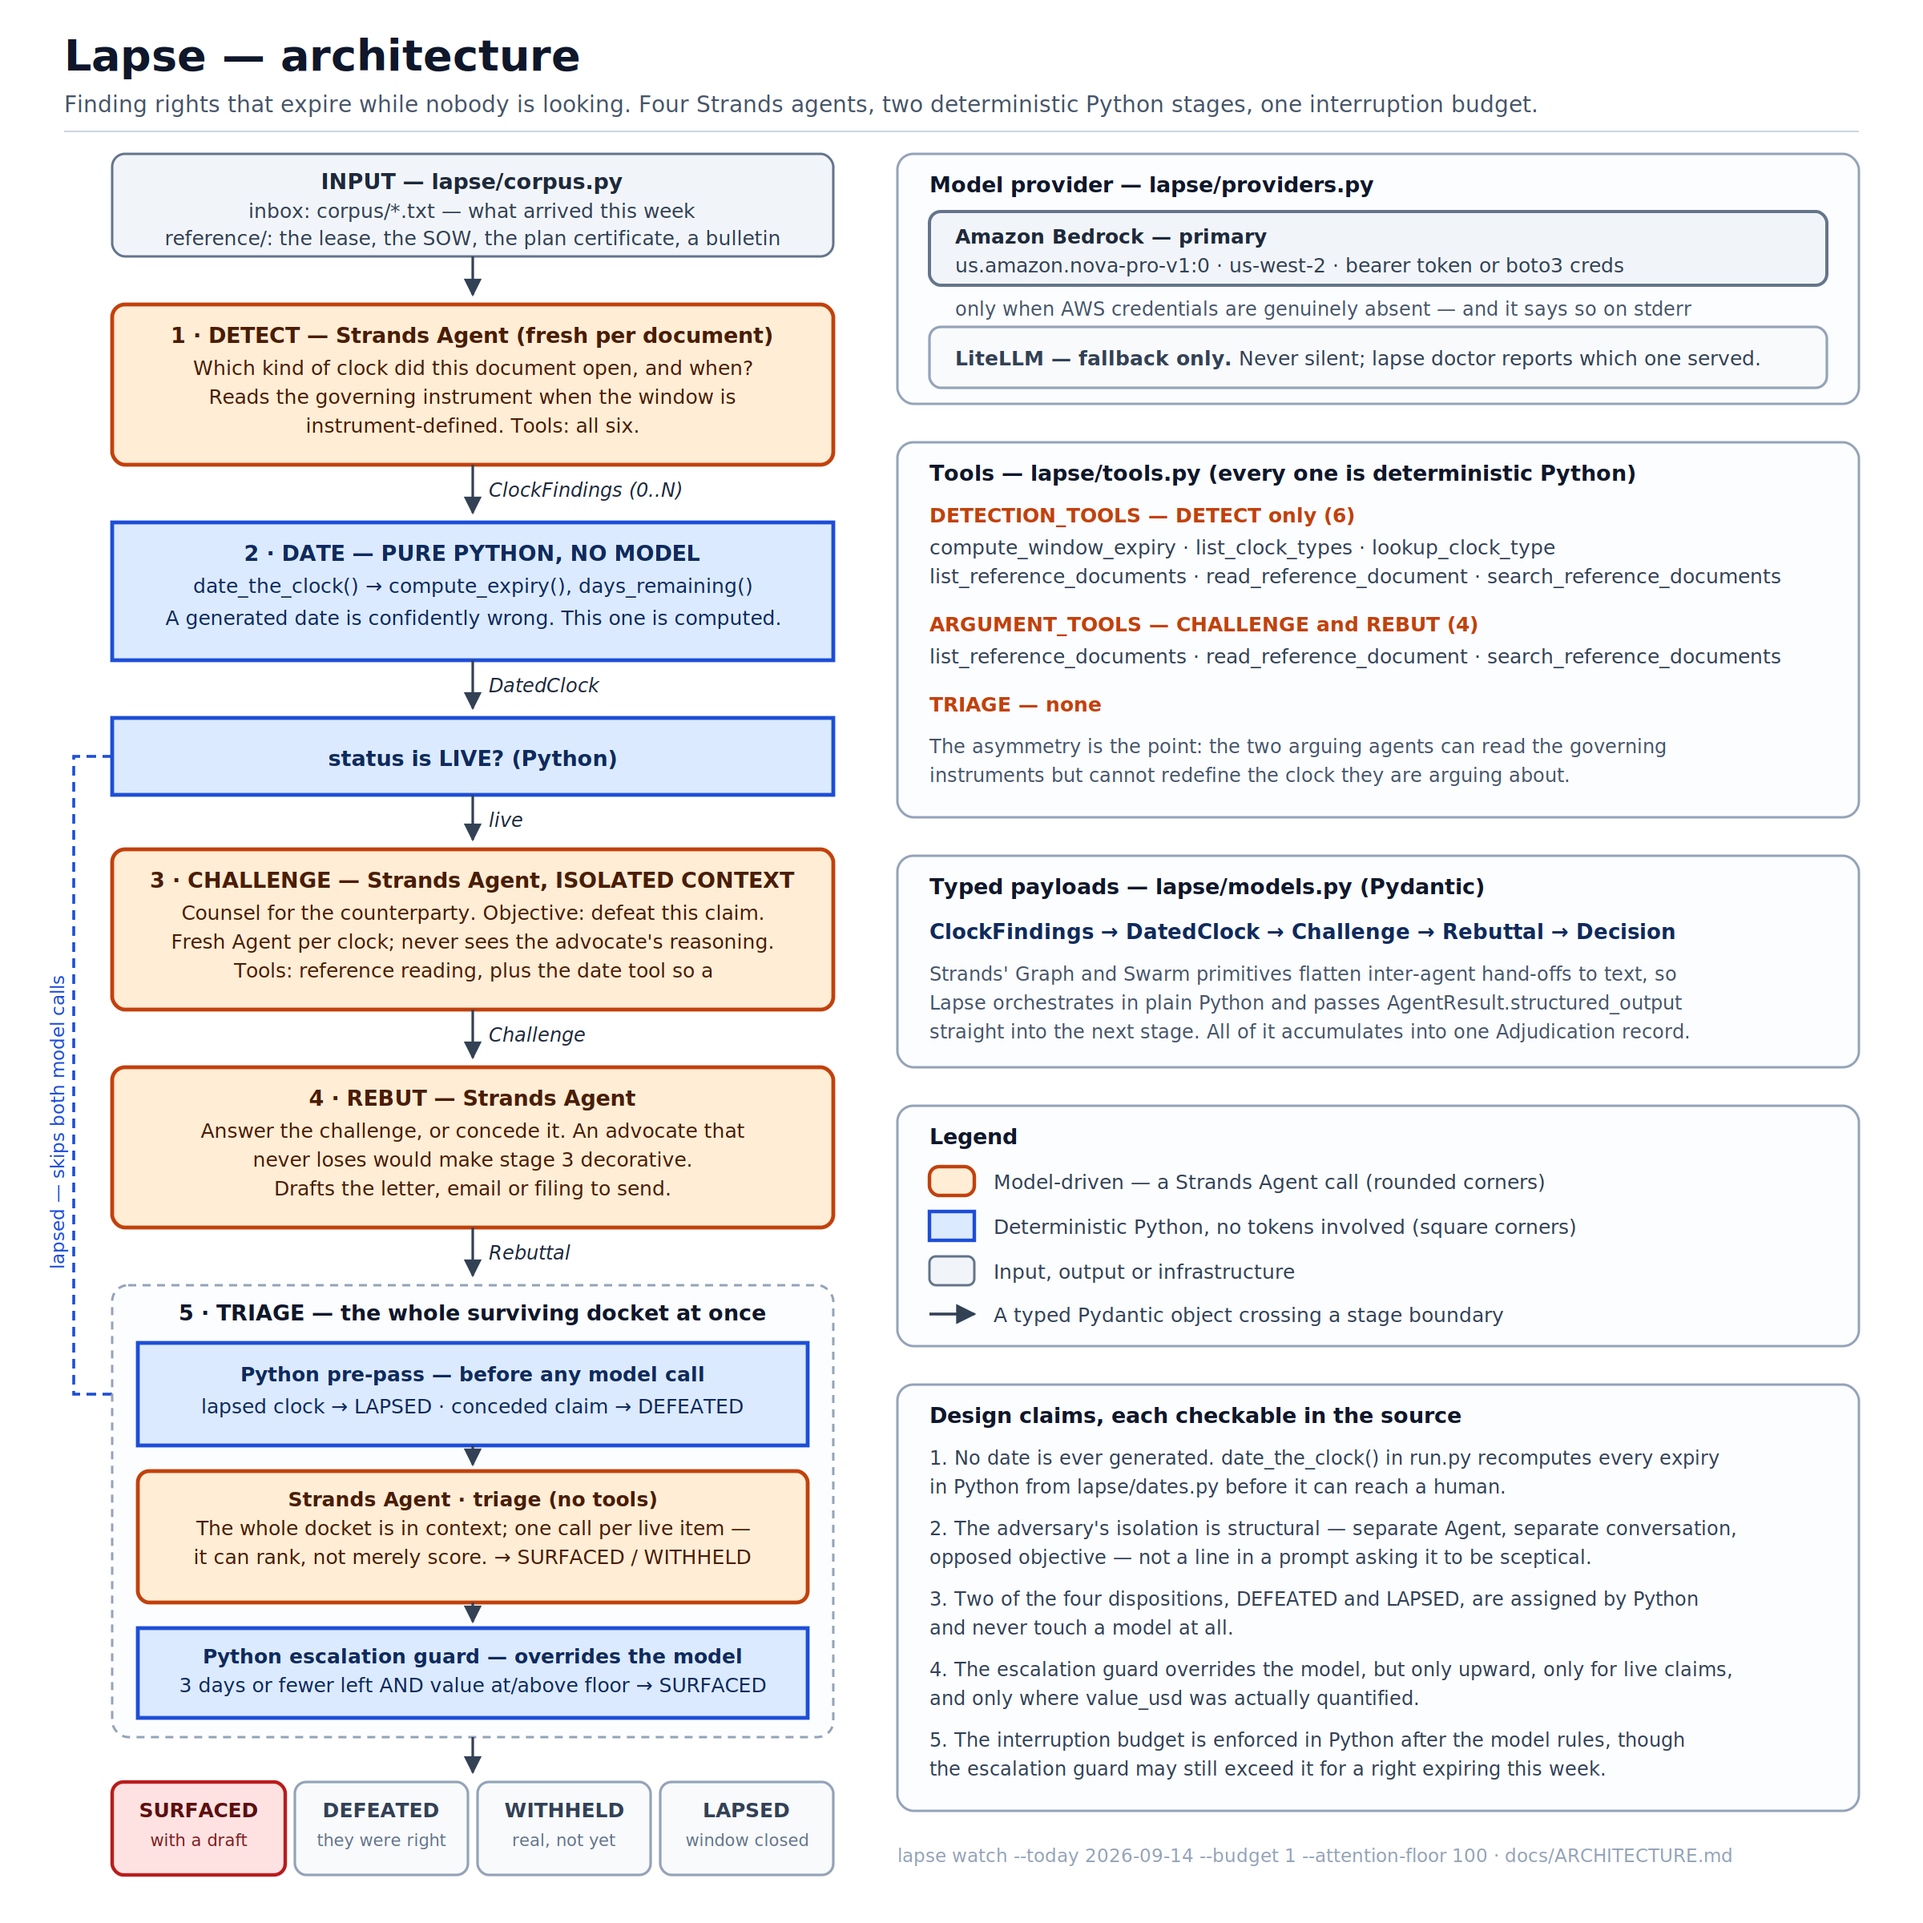
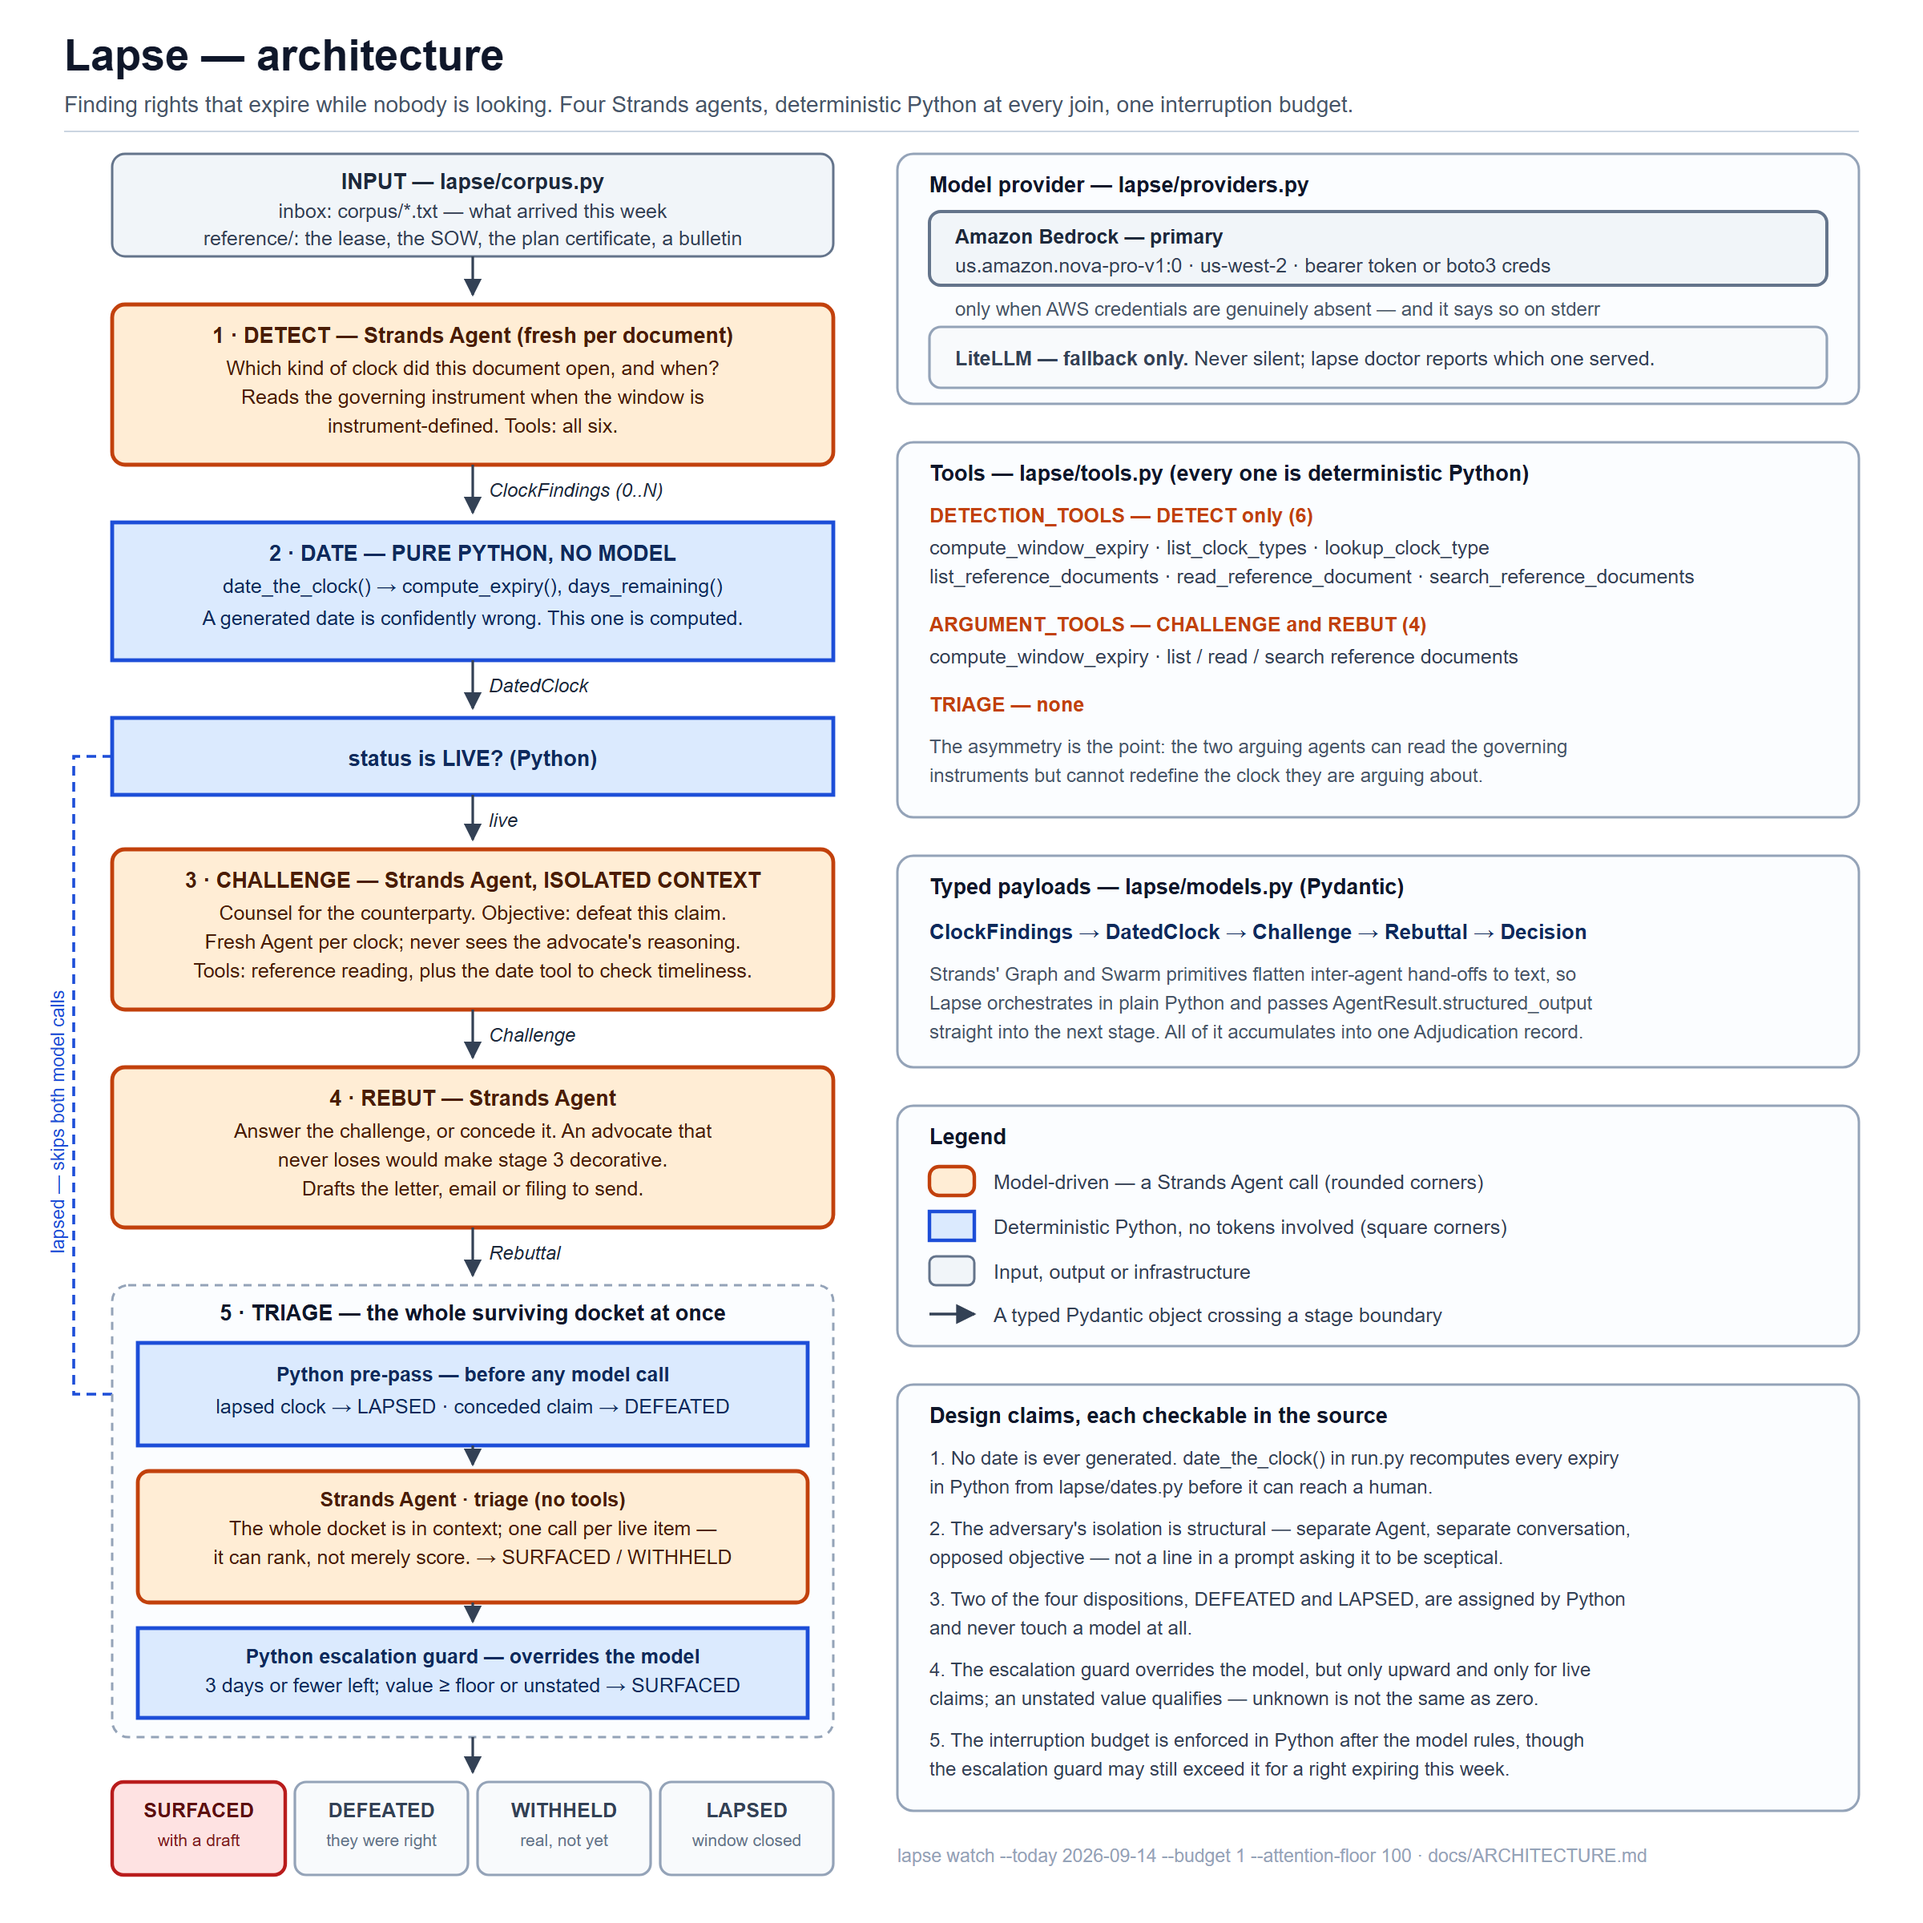
Correct the triage honesty claims the code had outgrown, and finish the diagram text
The honest-limits paragraph still said the interruption budget was not
enforced in Python and that an unquantified claim could never self-escalate.
Both were false: triage.py post-filters to the budget after the model rules,
and the guard treats an unstated value as qualifying -- a behaviour with its
own test (test_unquantified_value_escalates_on_imminence_alone). The
rewritten paragraph states a limit that is real instead: the budget
tie-break sorts by value_usd or 0.0, so an unquantified claim loses every
tie-break when the budget is oversubscribed.

The doc also still described triage as reusing one Agent across the
per-item loop (the code builds a fresh Agent per item, deliberately, so no
item anchors on another's decision), under-listed the argument agents'
tools, and said they hold "nothing else" when they also hold the date tool.

The diagram had a sentence left truncated mid-clause by the previous edit
("plus the date tool so a") and an ARGUMENT_TOOLS heading that said four
while listing three. Both fixed, the guard line and design claim 4 corrected
to match the code, and the PNG re-rendered from the corrected SVG.

diff --git a/docs/ARCHITECTURE.md b/docs/ARCHITECTURE.md
@@ -5,7 +5,7 @@ if you stay silent: insurance appeal windows, contract scope-objection windows, 
 repair clocks, recall remedy periods, price protection, mail-in rebates. Nobody chases you about
 these — that is the entire point of them.
 
-Four Strands agents and two deterministic Python stages run over an inbox and, almost always,
+Four Strands agents, with deterministic Python at every join, run over an inbox and, almost always,
 decide to say nothing. The interesting engineering is in the parts that are *not* a model.
 
 ---
@@ -57,7 +57,7 @@ flowchart TD
     subgraph TRIAGE["5 · TRIAGE — the whole surviving docket at once"]
         TPRE{{"Python pre-pass, before any model call<br/>lapsed clock becomes LAPSED<br/>conceded claim becomes DEFEATED"}}
         TMOD["Strands Agent — no tools<br/>whole docket in context, one call per live item<br/>emits SURFACED or WITHHELD"]
-        TGUARD{{"Python escalation guard<br/>3 days or fewer left and value at or above the floor<br/>becomes SURFACED regardless of the model"}}
+        TGUARD{{"Python escalation guard<br/>3 days or fewer left and value at or above the floor — or unstated —<br/>becomes SURFACED regardless of the model"}}
         TPRE --> TMOD --> TGUARD
     end
 
@@ -189,7 +189,7 @@ disposition.
 | Receives | The full `list[Adjudication]` — every clock, end to end |
 | Returns | The same list with `Decision` attached to each |
 | Tools | **None.** Triage reasons only over the docket it is handed. |
-| Agent | One `Agent` reused across the per-item loop |
+| Agent | Fresh `Agent` per item, so no item sees another's decision |
 
 Three sub-stages, in order:
 
@@ -204,15 +204,18 @@ Three sub-stages, in order:
    interruption, and the timing is right *now*; otherwise withhold with the actual reason and a
    `revisit_on` date.
 3. **Python escalation guard.** Any surviving claim with 3 days or fewer remaining and a value at
-   or above the attention floor is promoted to `SURFACED` regardless of what the model concluded.
-   The model decides what deserves attention; it does not get to let a valuable right expire this
-   week.
+   or above the attention floor — or with no stated value — is promoted to `SURFACED` regardless
+   of what the model concluded. The model decides what deserves attention; it does not get to let
+   a valuable right expire this week.
 
-**Honest limits of this stage, since the code is public:** the interruption budget is stated to the
-model in the prompt and is *not* enforced in Python — nothing post-filters to `budget`, and the
-guard can push the surfaced count above it. The guard reads `value_usd or 0.0`, so an unquantified
-claim can never self-escalate however few days remain. And the guard iterates the live set only: it
-cannot resurrect something already marked `DEFEATED` or `LAPSED`.
+**Honest limits of this stage, since the code is public:** the budget is enforced after the model
+rules — where the model surfaces more than the budget allows, the most valuable are kept and the
+rest withheld with a reason that says so — but the escalation guard runs *after* that filter and
+can still push the surfaced count above the budget for a right expiring this week. The guard
+treats an unquantified claim as qualifying, on the principle that unknown is not zero; the budget
+tie-break, however, sorts by `value_usd or 0.0`, so that same unquantified claim loses every
+tie-break when the budget is oversubscribed. And the guard iterates the live set only: it cannot
+resurrect something already marked `DEFEATED` or `LAPSED`.
 
 ---
 
@@ -239,19 +242,21 @@ disposition* — the dating stage and the escalation guard — have no model in 
 | Stage | Tools available |
 |---|---|
 | DETECT | `compute_window_expiry`, `list_clock_types`, `lookup_clock_type`, `list_reference_documents`, `read_reference_document`, `search_reference_documents` |
-| CHALLENGE, REBUT | `list_reference_documents`, `read_reference_document`, `search_reference_documents` |
+| CHALLENGE, REBUT | `compute_window_expiry`, `list_reference_documents`, `read_reference_document`, `search_reference_documents` |
 | TRIAGE | none |
 
 The asymmetry is the point. The detector needs the registry and the arithmetic. The two arguing
-agents need the governing documents and nothing else — they must not be able to redefine the clock
-they are arguing about. Triage is handed a docket and reasons about it.
+agents get the governing documents and the date arithmetic but not the registry — they can check
+when a window closes, but cannot redefine the clock they are arguing about. Triage is handed a
+docket and reasons about it.
 
 ### Agent isolation
 
 The detector, adversary and advocate each construct a fresh `Agent` with its own system prompt and
 empty conversation on every call. Nothing is shared between stages except the typed object handed
-forward. (Triage is the exception: one `Agent` is reused across its per-item loop, so it carries
-conversation state within the triage stage — which is intended, since its whole job is comparative.)
+forward. Triage also builds a fresh `Agent` per item: the comparative context — the whole docket —
+is rendered into every prompt rather than carried in a conversation, so deciding item [1] cannot
+anchor on what the model said about item [0].
 
 ### Provider — `lapse/providers.py`
 

diff --git a/README.md b/README.md
@@ -177,8 +177,9 @@ clause. Guessing a typical value would be the most dangerous thing this system c
 plausible wrong deadline produces calm inaction right up until the right is gone.
 
 **A deterministic guard sits on the join.** Triage is a model deciding what deserves attention. It
-does not get to let a valuable right expire this week — any surviving claim above the attention
-floor with ≤3 days remaining is escalated by Python, whatever the model concluded.
+does not get to let a valuable right expire this week — any surviving claim at or above the
+attention floor, or with no stated value, and ≤3 days remaining is escalated by Python, whatever
+the model concluded.
 
 **It shows its work.** Every run ends with its own trace — how many model
 invocations, across how many isolated agents, which tools were called how many
